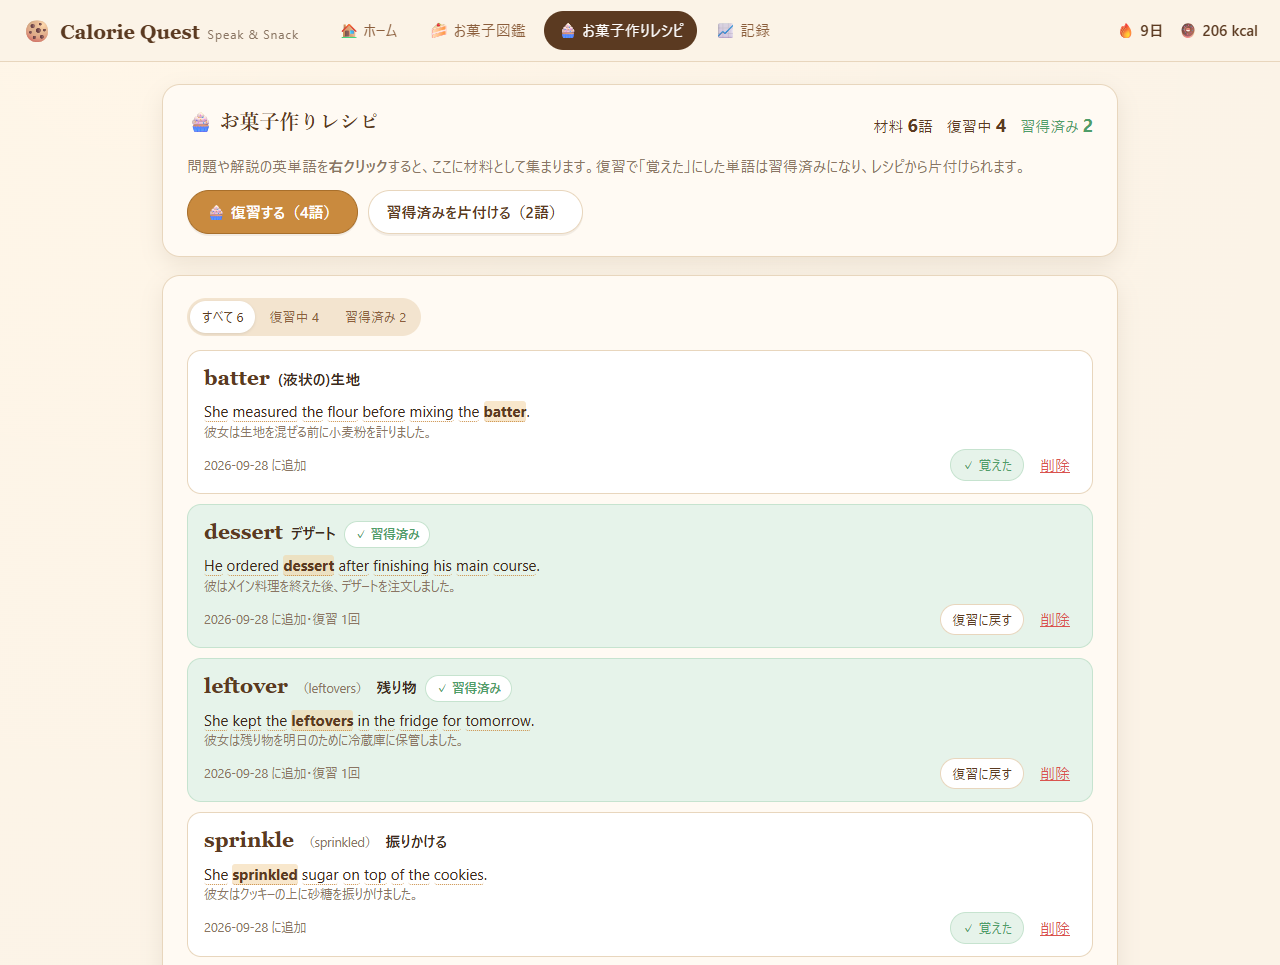
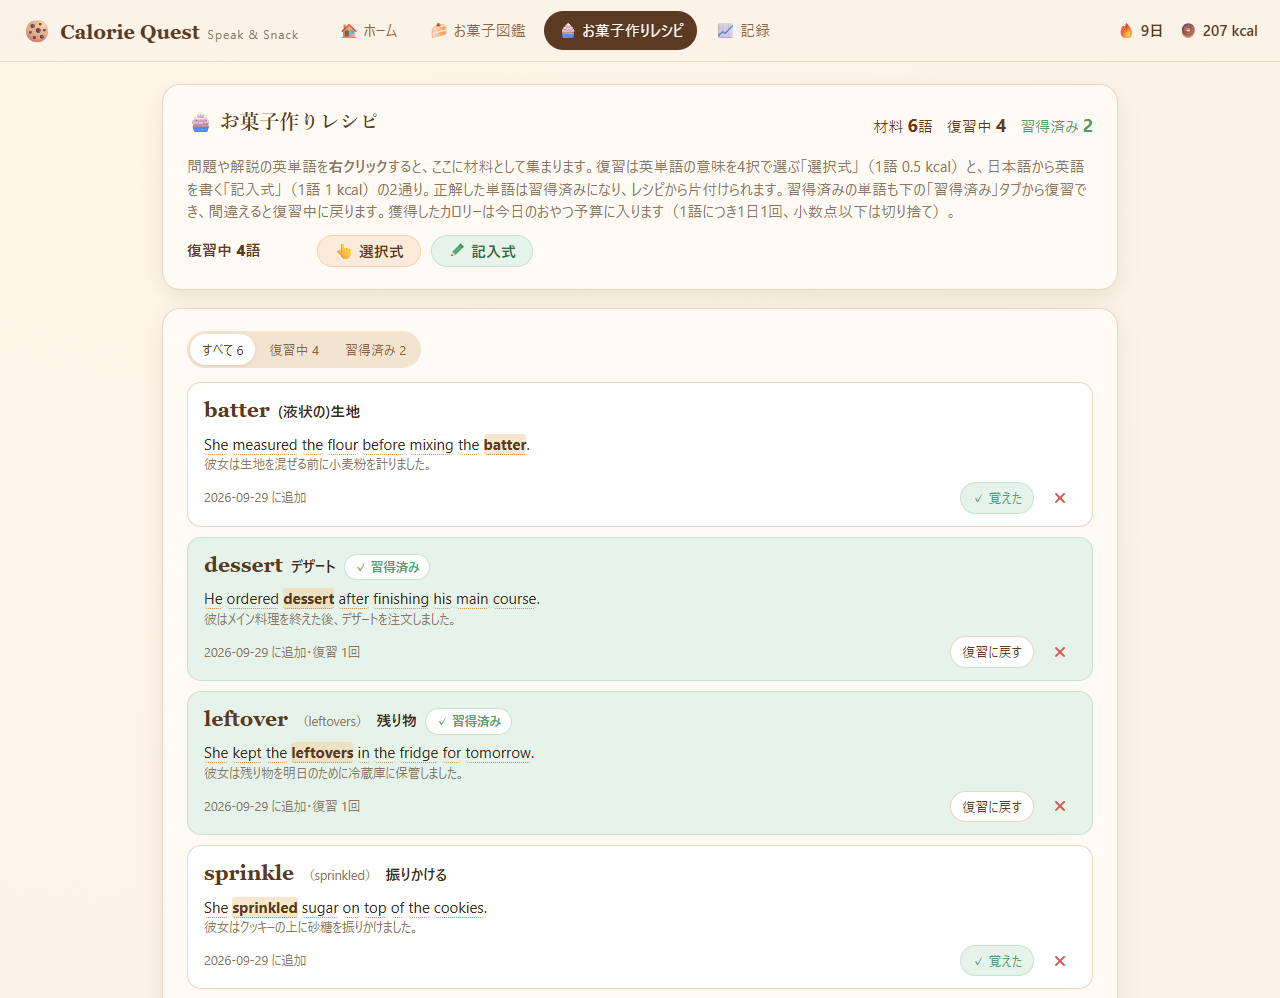
Retake the README screenshots for the current screens
Home (the remainder gauge and one-line goals), the recipe (選択式 / 記入式 review buttons), the
snack book (sortable one-line list, icon buttons) and the rest, taken in the browser preview with
the same demo data as before. The captions follow what the pictures now show.

diff --git a/README.md b/README.md
@@ -3,15 +3,15 @@
 英語の問題を解くと「今日食べていいお菓子のカロリー」が貯まる、軽量な英語学習ゲームです。
 仕様は [docs/spec.md](docs/spec.md) を参照してください。
 
-![ホーム画面: 今日のおやつ予算（貯蓄と引換券のバッジ、お菓子アイコンのバー）、目標のお菓子ごとの「あと何問」と「食べた！」、学習の開始](docs/screenshots/home.png)
+![ホーム画面: 今日のおやつ予算（獲得・消費・残りのカロリーと、残りを示すお菓子アイコンのバー）、1行ずつの目標のお菓子（進み具合・あと何問・食べた・削除）、学習の開始](docs/screenshots/home.png)
 
 | 文法問題の解説と単語の意味 | お菓子作りレシピ（単語帳） |
 | --- | --- |
-| ![文法問題に正解したところ。完成した文、文法ポイントの解説、単語にカーソルを合わせた意味の表示](docs/screenshots/study.png) | ![右クリックで集めた単語の一覧。例文と訳、習得済みの印](docs/screenshots/recipe.png) |
+| ![文法問題に正解したところ。完成した文、文法ポイントの解説、単語にカーソルを合わせた意味の表示](docs/screenshots/study.png) | ![右クリックで集めた単語の一覧。選択式・記入式の復習ボタン、例文と訳、習得済みの印](docs/screenshots/recipe.png) |
 
-| お菓子図鑑（家計簿・貯蓄・引換券） | 記録 |
+| お菓子図鑑（家計簿・貯蓄・並び替え） | 記録 |
 | --- | --- |
-| ![お菓子図鑑: 今日のカロリー家計簿、貯蓄の進み具合、お菓子引換券、お菓子ごとの「食べた！」と「引換券で食べる」](docs/screenshots/snacks.png) | ![記録画面: 累計学習日数・連続学習・正答率と、この2週間の獲得カロリー](docs/screenshots/stats.png) |
+| ![お菓子図鑑: 今日のカロリー家計簿と取り消し、貯蓄の進み具合とお菓子引換券、並び替えできる1行ずつのお菓子の一覧（目標の★、食べた、引換券、自作の削除）](docs/screenshots/snacks.png) | ![記録画面: 累計学習日数・連続学習・正答率と、この2週間の獲得カロリー](docs/screenshots/stats.png) |
 
 <sub>画面はブラウザプレビュー（`npm run dev`、モックデータ）で撮影したものです。数値はデモ用です。</sub>
 
